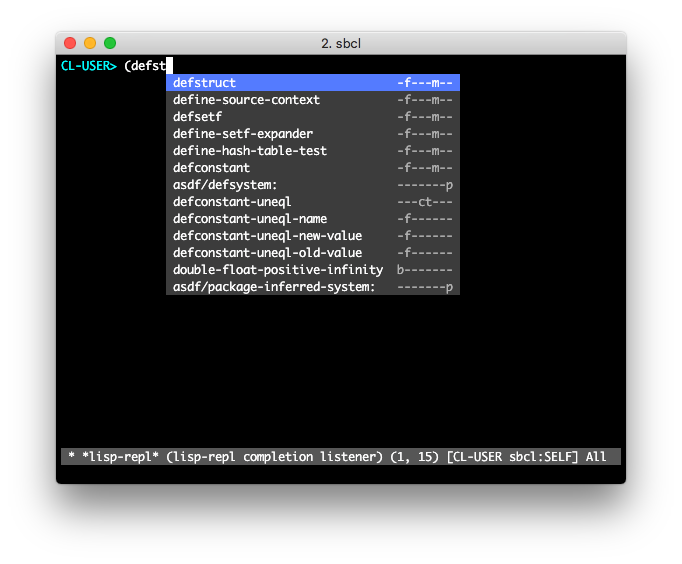
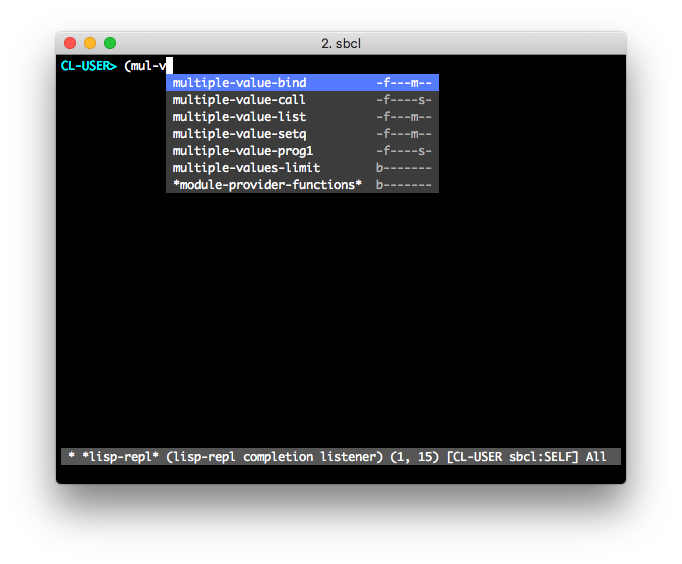
補完を書き直し

diff --git a/02-Lem/lem.md b/02-Lem/lem.md
@@ -255,31 +255,15 @@ CL-USER> (ql:quickload :cl-ppcre)
 ### 入力補完
 
 Lemでは入力中にTabを押すことで補完が出来ます。
-例えば`defst`と打ち込んだ後にTabキーを押すと、次のように候補が表示されます。
 
-![補完](https://raw.githubusercontent.com/clfreaks/techbookfest6/master/images/02-lem-completion.png)
+![](https://raw.githubusercontent.com/clfreaks/techbookfest6/master/images/02-lem-completion.png)
 
-SWANKサーバのランタイム上に存在するシンボルから補完候補を出すので、補完したいライブラリのシンボルは、そのライブラリを読み込むことで出来ます。
+このときに`C-n`や`M-n`、カーソルキーの下を入力すれば一つ下の候補を選べます。  
+上にするには`C-p` `M-p` カーソルキーの上を入力します。  
+Enterを押すことでその補完候補を選択できます。
 
-ここではcl-ppcreのシンボルを補完をしたいのでREPLでcl-ppcreをquickloadしてみます。
-```
-CL-USER> (ql:quickload :cl-ppcre) 
-To load "cl-ppcre":
-  Load 1 ASDF system:
-    cl-ppcre
-; Loading "cl-ppcre"
-.
-(:CL-PPCRE)
-```
-
-exportされたシンボルはコロンを一つ付けることで補完候補に出ます。
-![](https://raw.githubusercontent.com/clfreaks/techbookfest6/master/images/02-lem-completion-1.png)
-
-exportされていないシンボルは、2つコロンをつけると補完候補に出ます。
-![](https://raw.githubusercontent.com/clfreaks/techbookfest6/master/images/02-lem-completion-2.png)
-
-補完は曖昧検索を使っているので並びさえあっていれば補完候補に出ます。
-![](https://raw.githubusercontent.com/clfreaks/techbookfest6/master/images/02-lem-completion-3.png)
+lisp-modeではあいまい補完を使っているので並びがあっていれば補完候補に表示されます。  
+補完機能はミニバッファでの入力などでも出来るので、例えばファイルを開く(`C-x C-f`)場合はファイル名が補完されます。
 
 ### 式の評価とコンパイル
 
